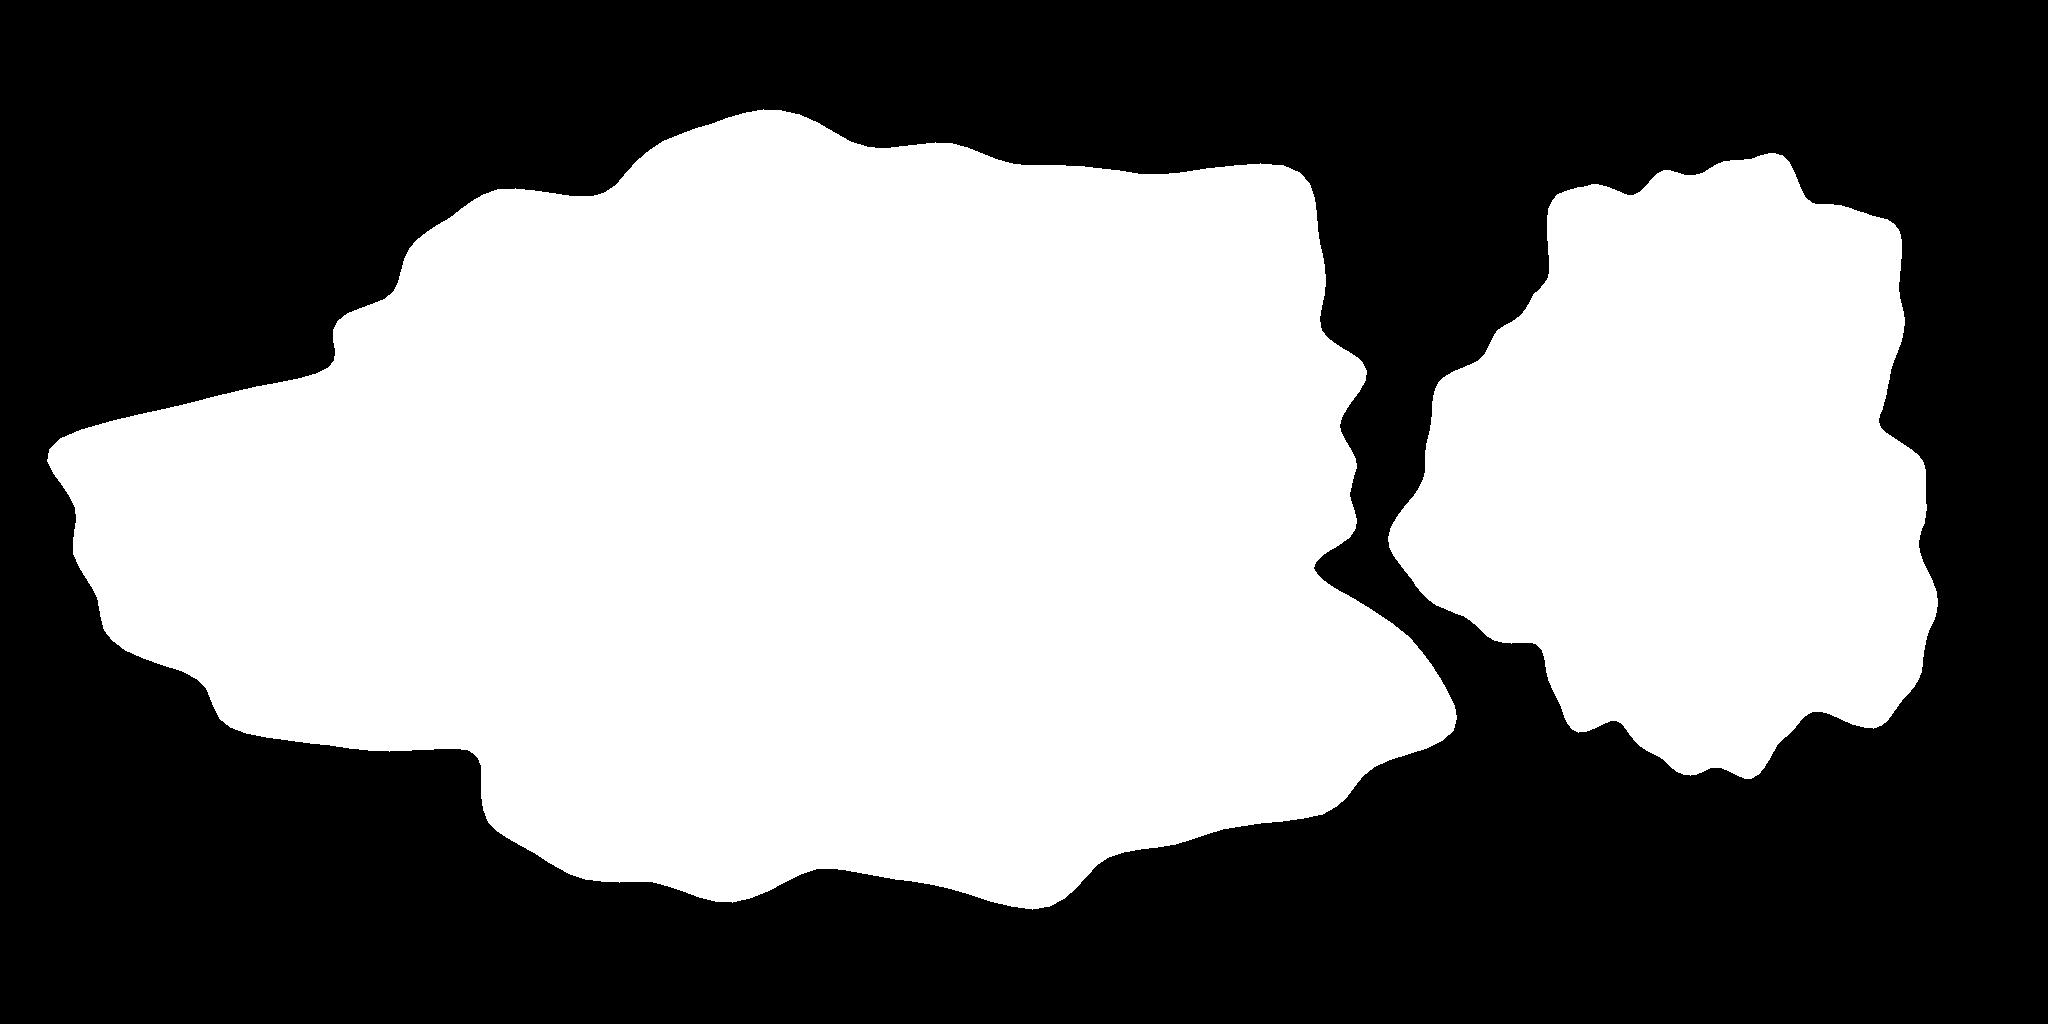
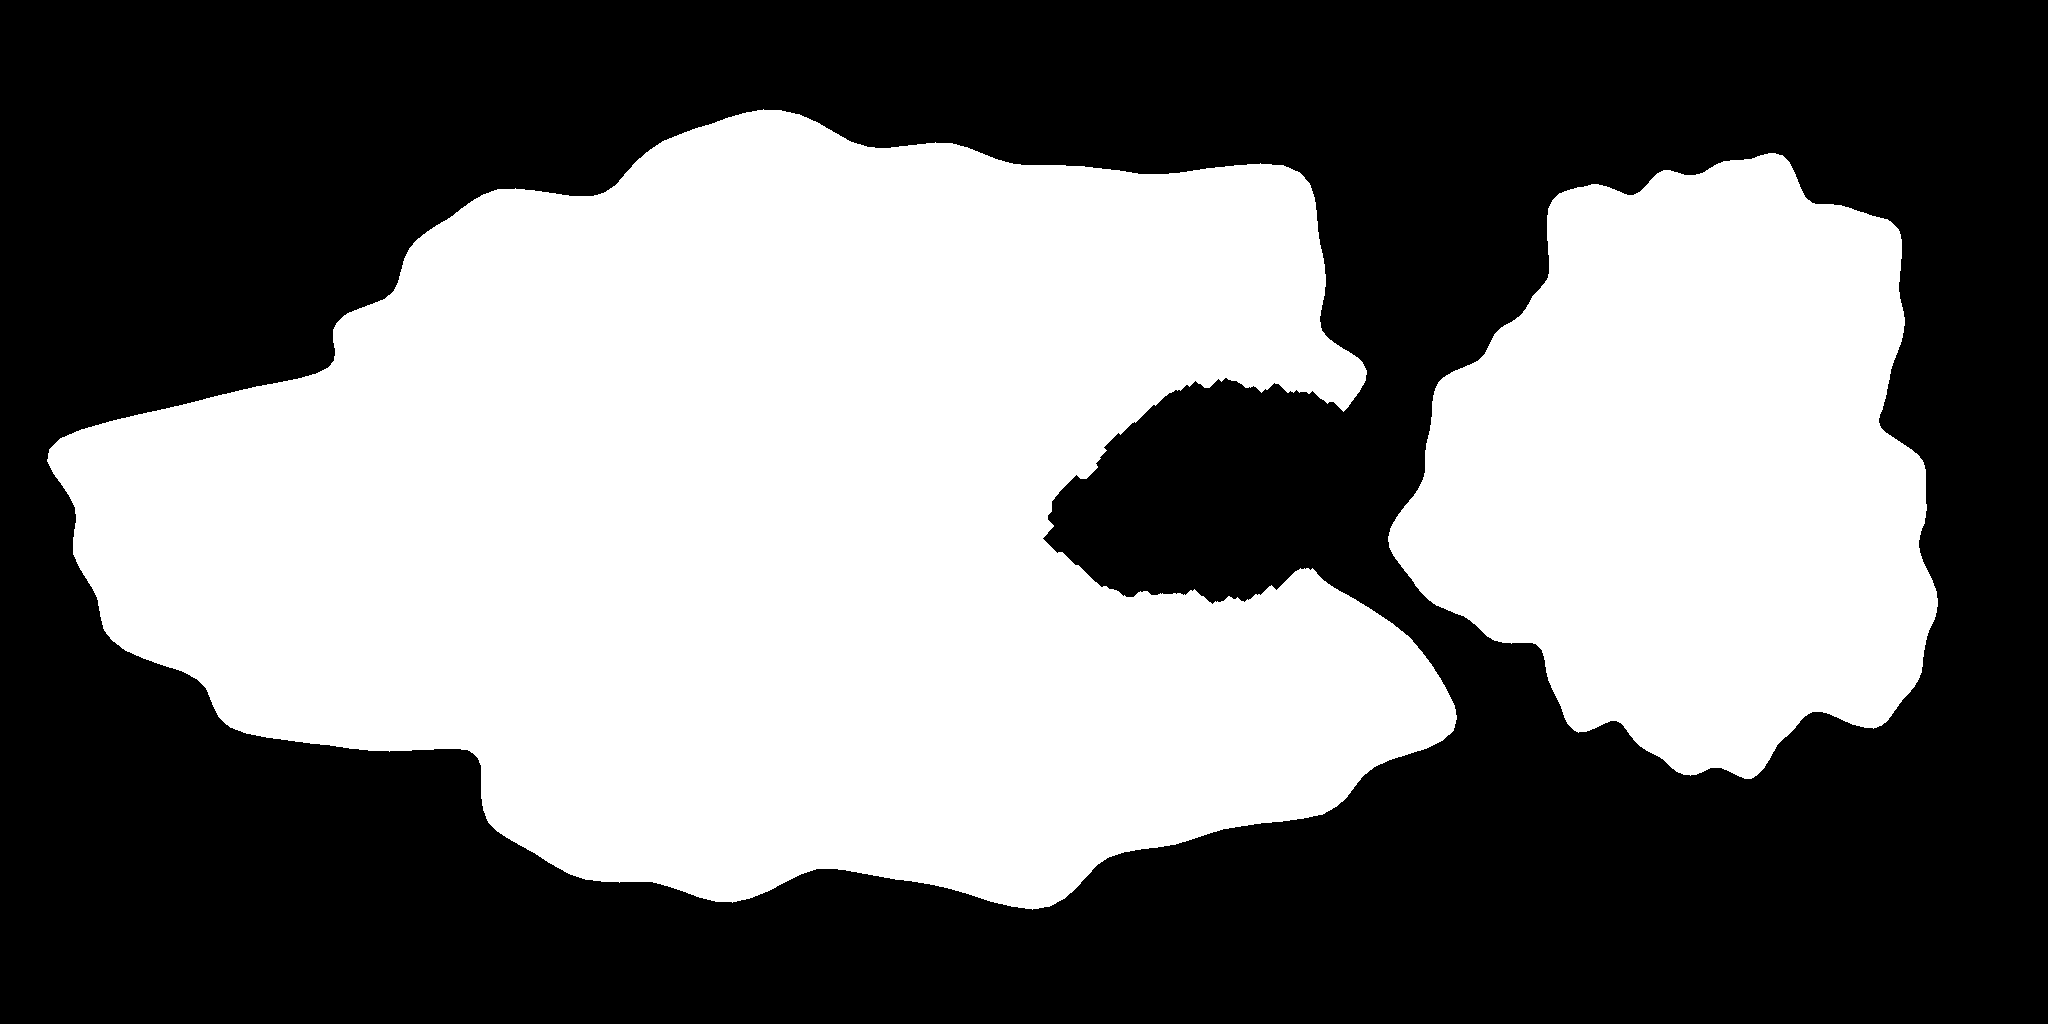
Add fantasy maps for 3,5,6,8 players; complete army art; drop unpainted map types
- 5-player coastline mask follows the bay in the painting
- Crusader/Roman forts and eight commanders from Canva
- GAME_RULES: map types are now Fantasy and World only

Claude-Session: https://claude.ai/code/session_01KaYnCNVe2Ez2ub4wzcW1G1

Changed region(s): [[0.5, 0.375, 0.6875, 0.5938]]

diff --git a/docs/GAME_RULES.md b/docs/GAME_RULES.md
@@ -45,10 +45,8 @@ No present-day armies or current conflicts. No Nazi symbols.
 - Territory count ≈ `players × 5`, same scaling for teams.
 - **Map types**, chosen by **player vote** in the lobby (majority wins, ties broken at random;
   quick match picks at random):
-  - **Fantasy** — invented continents, pre-generated per player count.
-  - **World**, **Arab world**, **Levant (بلاد الشام)** — real geography. Real regions are grouped
-    into `players × 5` territories per player count.
-  - **Historical** — real geography with the borders of a past era (e.g. the time of the Crusades).
+  - **Fantasy** — painted continents, one per player count (2–8).
+  - **World** — the real world map; real regions are grouped into `players × 5` territories.
 - For every map and player count: every territory is reachable and bases are as far apart as possible.
 - Territory values: normal **200**, base **1000**.
 - Each player starts with one **base** (قلعة) with **3 towers** (lives). The base art follows the player's army.

diff --git a/app/assets/maps/README.md b/app/assets/maps/README.md
@@ -9,3 +9,7 @@ castles are drawn on top in code, clipped to the template's coastline.
 | `real-world.jpg` | Real world (2048×1013) | AI-generated (Gemini) from `backend/maps/shapes/real-world.png`; coastline checked against the Natural Earth mask |
 | `fantasy-7p.jpg` | Fantasy, 7 players (2048×1024) | AI-generated (Gemini); coastline checked against `fantasy-7p-mask.png` |
 | `fantasy-2p.jpg` | Fantasy, 2 players (2048×1013) | AI-generated (Gemini) from the shape image only; coastline checked; grey margins recoloured |
+| `fantasy-3p.jpg` | Fantasy, 3 players | AI-generated (Gemini) from the shape image only; coastline checked |
+| `fantasy-5p.jpg` | Fantasy, 5 players; coastline mask updated to the painted bay | AI-generated (Gemini) from the shape image only; coastline checked |
+| `fantasy-6p.jpg` | Fantasy, 6 players | AI-generated (Gemini) from the shape image only; coastline checked |
+| `fantasy-8p.jpg` | Fantasy, 8 players | AI-generated (Gemini) from the shape image only; coastline checked |

diff --git a/docs/DECISIONS.md b/docs/DECISIONS.md
@@ -94,3 +94,11 @@ The owner decided that **every army is free** from the start. Gold still buys ot
   Territory borders, owner colours, shields and castles are always drawn in code on top.
 - **Decorations:** a Gemini sprite sheet (16 items) cut into `app/assets/decor/painted/`;
   Kenney Cartography (CC0) kept as a fallback.
+
+### Update — art set closed (2026-11-06)
+- Maps: fantasy 2p–8p and the real World map are painted and checked against their coastlines.
+  The 5-player coastline was updated to follow the bay Gemini painted.
+- **Dropped by the owner:** Arab world, Levant and historical maps (removed from GAME_RULES §3);
+  the extra art requests (Crusader/Roman forts in ink style, new Islamic soldiers, full-size commanders).
+  We ship the Canva versions of the Crusader and Roman forts and the eight commanders (200 px previews,
+  enough for the small UI slots; replace if larger art is wanted later).

diff --git a/app/assets/armies/README.md b/app/assets/armies/README.md
@@ -5,5 +5,7 @@
 | `soldiers/` | Marching squad per army (3 soldiers facing right), transparent PNG, max 640px | AI-generated (Gemini) by the project owner |
 | `forts/` | Base (castle) art per army, 512×512 PNG with transparent background | AI-generated (Gemini / Canva) by the project owner |
 
-Background removed and resized with `tools/art/cutout.py`. Forts: all 8 in Gemini ink style except Crusaders and Romans (Canva, to be redone). Commanders and the remaining forts are
+Background removed and resized with `tools/art/cutout.py`. Forts: Gemini ink style except Crusaders and Romans (Canva, 200 px). Commanders and the remaining forts are
 added as their final high-resolution versions arrive.
+
+`commanders/`: the eight commander portraits from Canva (200 px previews).

diff --git a/backend/maps/shapes/README.md b/backend/maps/shapes/README.md
@@ -11,4 +11,4 @@ The mask is the source of truth for the coastline:
 | Name | Use |
 |---|---|
 | `fantasy-2p` … `fantasy-8p` | Fantasy continents per player count (4p lives in the original mockup) |
-| `real-world`, `real-arab-world`, `real-levant` | Real geography from Natural Earth 1:50m land (public domain). The `.json` next to each holds the lon/lat window and projection. |
+| `real-world` (used), `real-arab-world`, `real-levant` (not used — dropped) | Real geography from Natural Earth 1:50m land (public domain). The `.json` next to each holds the lon/lat window and projection. |
